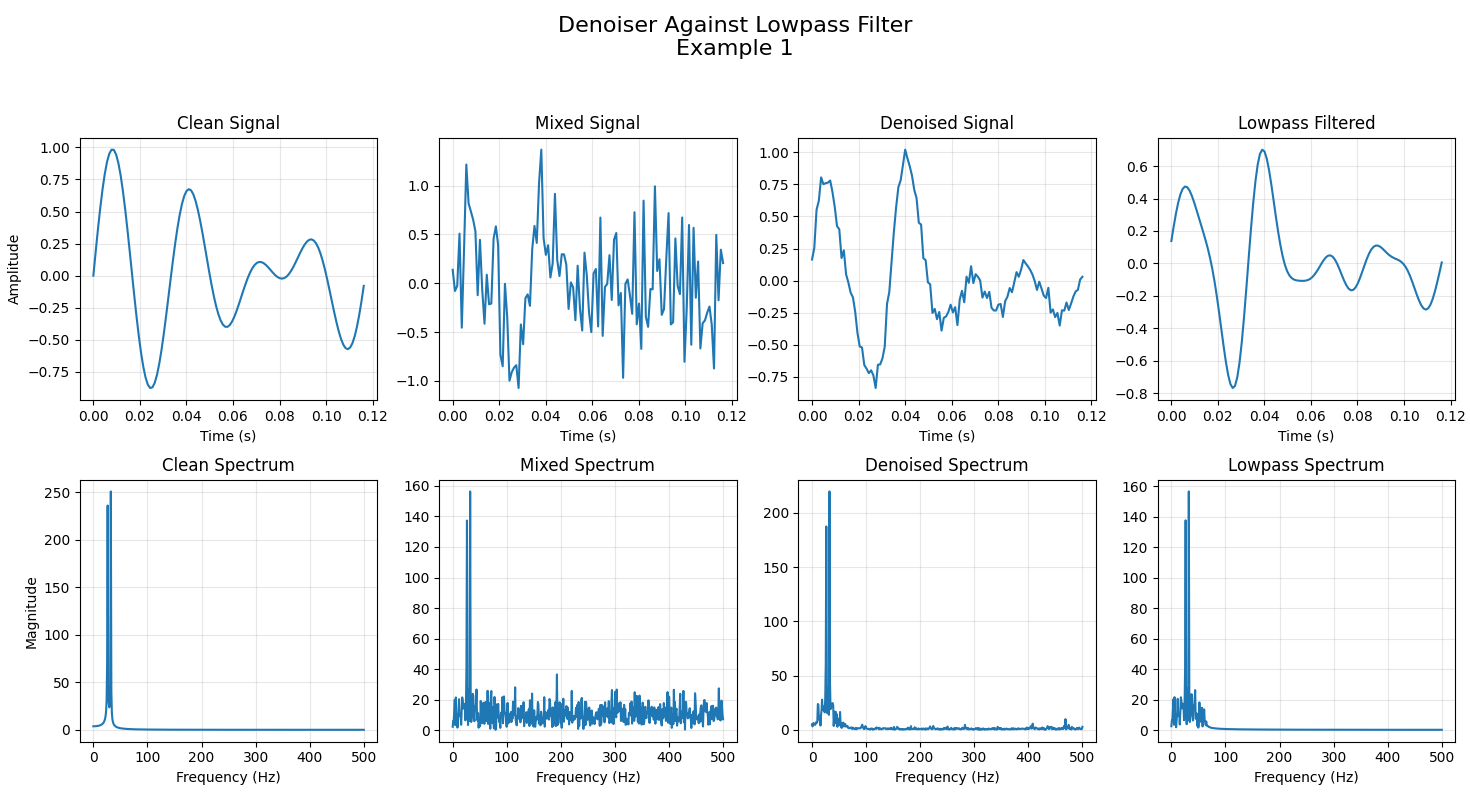
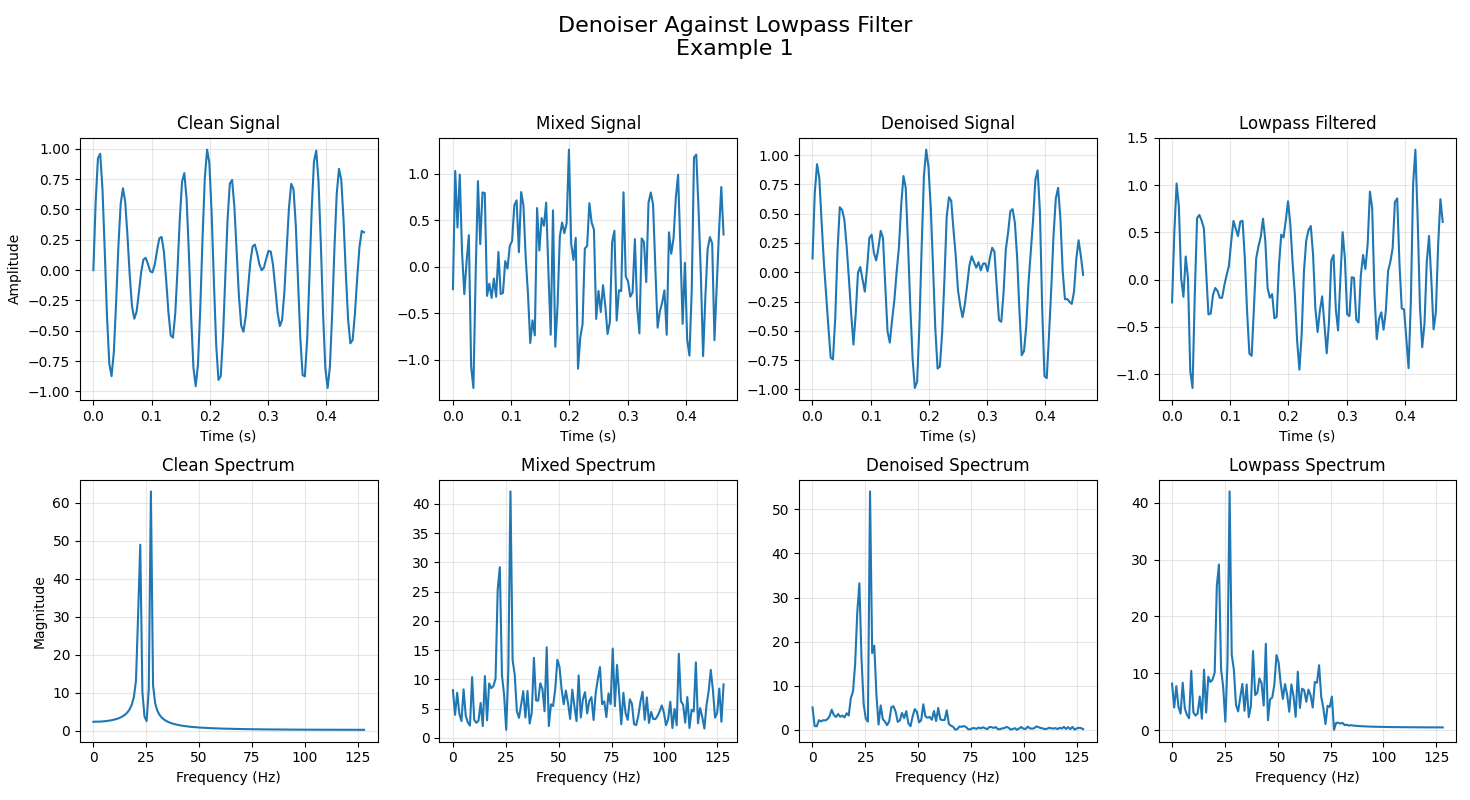
restructured architecture to make it more lightweight; sample rate now 256, filter sizesdecreased, etc; todo: update readme, clean up altered code

diff --git a/src/train_gan.py b/src/train_gan.py
@@ -35,7 +35,8 @@ def train_gan(
     lr=1e-4,
     gamma=1,
     rho=3,
-    delta=1
+    delta=1,
+    signal_length=1024
 ):
 
     # Data Splits
@@ -43,6 +44,7 @@ def train_gan(
 
     # Models
     generator = DenoisingAE(
+        signal_length=signal_length,
         num_enc_filters=num_enc_filters, 
         num_dec_filters=num_dec_filters, 
         num_downsamples=num_upsamples_and_downsamples, 
@@ -52,6 +54,7 @@ def train_gan(
     )
 
     discriminator = Discriminator(
+        signal_length=signal_length,
         num_filters=num_filters,
         num_convolutions=num_convolutions, 
         fc_units=num_fc_units,
@@ -62,7 +65,7 @@ def train_gan(
     gen_optimizer = torch.optim.Adam(generator.parameters(), lr=lr)
     disc_optimizer = torch.optim.Adam(discriminator.parameters(), lr=lr)
     # TODO: Activate schedulers for decreasing learning rate
-    gen_scheduler = StepLR(gen_optimizer, step_size=25, gamma=.5)
+    gen_scheduler = StepLR(gen_optimizer, step_size=50, gamma=.5)
     disc_scheduler = StepLR(disc_optimizer, step_size=25, gamma=.5)
 
     print("Number of float-valued parameters in DenoisingAE:", model_utils.count_parameters(generator))
@@ -177,21 +180,22 @@ def main() :
 
     train_gan(
         # Generator params
-        num_enc_filters=16,
-        num_dec_filters=32,
-        num_upsamples_and_downsamples=4,
+        num_enc_filters=12,
+        num_dec_filters=24,
+        num_upsamples_and_downsamples=3,
         # Discriminator params
-        num_filters=16,
-        num_convolutions=3,
-        num_fc_units=32,
+        num_filters=2,
+        num_convolutions=2,
+        num_fc_units=12,
         # Training hyperparams
-        max_epochs=100,
-        patience=100,
-        batch_size=125,
-        lr=1e-4,
+        max_epochs=200,
+        patience=50,
+        batch_size=25,
+        lr=5e-4,
         gamma=1,
         rho=3,
-        delta=1
+        delta=1,
+        signal_length=256,
     )
 
 

diff --git a/src/utils/utils.py b/src/utils/utils.py
@@ -323,7 +323,7 @@ def plot_generator_against_lowpass(generator, val_loader, num_examples=2, sample
 
         # Plot frequency spectra in the second row
         for col, signal in enumerate([clean_signal, mixed_signal, generated_signal, filtered_signal]):
-            axes[1, col].plot(np.linspace(0, 500, len(signal)//2), 
+            axes[1, col].plot(np.linspace(0, 128, len(signal)//2), 
                               np.abs(np.fft.fft(signal))[:len(signal)//2])
             axes[1, col].set_title(freq_titles[col])
             axes[1, col].grid(True, alpha=0.3)
@@ -370,7 +370,7 @@ def resample_and_write(signal, name, duration=1., output_dir="data/resampled") :
     write(output_file, target_sample_rate, resampled_noise_int16)
 
     
-def apply_lowpass_filter(audio_signal, sr=1024, passband_freq=128, stopband_freq=160, 
+def apply_lowpass_filter(audio_signal, sr=256, passband_freq=64, stopband_freq=100, 
                         passband_ripple=0.05, stopband_attenuation=60):
     """
     Apply a Butterworth lowpass filter to an audio signal.

diff --git a/src/create_data.py b/src/create_data.py
@@ -220,6 +220,7 @@ def generate_mixed_signals(
 
 
 def generate(
+        sample_rate=1024,
         min_freq=10,
         max_freq=256,
         num_sine_components=2,
@@ -233,8 +234,6 @@ def generate(
     splits = ["data/train", "data/validation"]
 
     directories = [split + kind for split in splits for kind in kinds]
-
-    sample_rate=1024
     
     # Wipe all directories
     for directory in directories:
@@ -329,13 +328,14 @@ def generate(
 
 def main():
     generate(
+        sample_rate=256,
         min_freq=10,
-        max_freq=128,
+        max_freq=64,
         num_sine_components=2,
-        snr=-4,
-        total_signals=4500,
+        snr=-2,
+        total_signals=900,
         tr_split=(8/9), 
-        val_split=(1/9)
+        val_split=(1/9),
     )
 
 if __name__ == "__main__":

diff --git a/src/models/generator.py b/src/models/generator.py
@@ -25,11 +25,11 @@ class DenoisingAE(nn.Module):
         signal_length: int = 1024, # i.e. sample rate * lowest duration of audio
         num_enc_filters: int = 64,
         num_dec_filters: int = 128,
-        filter_size: int = 128,
+        filter_size: int = 64,
         stride: int = 2,
         num_downsamples: int = 5,
         num_upsamples: int = 5,
-        leakiness: float = 0.3,
+        leakiness: float = 0.05,
         gamma=1,
         rho=1,
     ):
@@ -155,7 +155,7 @@ class DenoisingAE(nn.Module):
 
         # Final output layer to restore to the original/desired signal dimension
         x = self.final_layer(x)
-        x = x[..., :1024]
+        x = x[..., :256]
         # TODO: Find a more elegant mathematical mapping so we don't have to cut-off data
 
         return x

diff --git a/src/utils/generator_utils.py b/src/utils/generator_utils.py
@@ -137,9 +137,10 @@ def train_epoch(generator, discriminator, tr_loader, optimizer):
         disc_outputs = discriminator(gen_outputs)
 
         # Calculate generator loss using the helper function
-        loss = _generator_loss(gen_outputs, disc_outputs, clean_data)
+        adv_loss = _adversarial_loss(disc_outputs)
+        recon_loss = _reconstruction_loss(gen_outputs, clean_data)
 
-        loss *= generator.rho
+        loss = (adv_loss * generator.gamma) + (recon_loss * generator.rho)
 
         # Backward pass and optimizer step
         loss.backward()

diff --git a/src/models/discriminator.py b/src/models/discriminator.py
@@ -23,9 +23,9 @@ class Discriminator(nn.Module):
         signal_length: int = 1024, # i.e. sample rate * lowest duration of audio
         num_convolutions: int = 5,
         num_filters: int = 64,
-        filter_size: int = 64,
+        filter_size: int = 32,
         stride: int = 2,
-        leakiness: float = 0.3,
+        leakiness: float = 0.05,
         num_fc_layers: int = 2,  # Number of fully connected layers
         fc_units: int = 128,     # Number of units in the fully connected layers
         delta=1,
